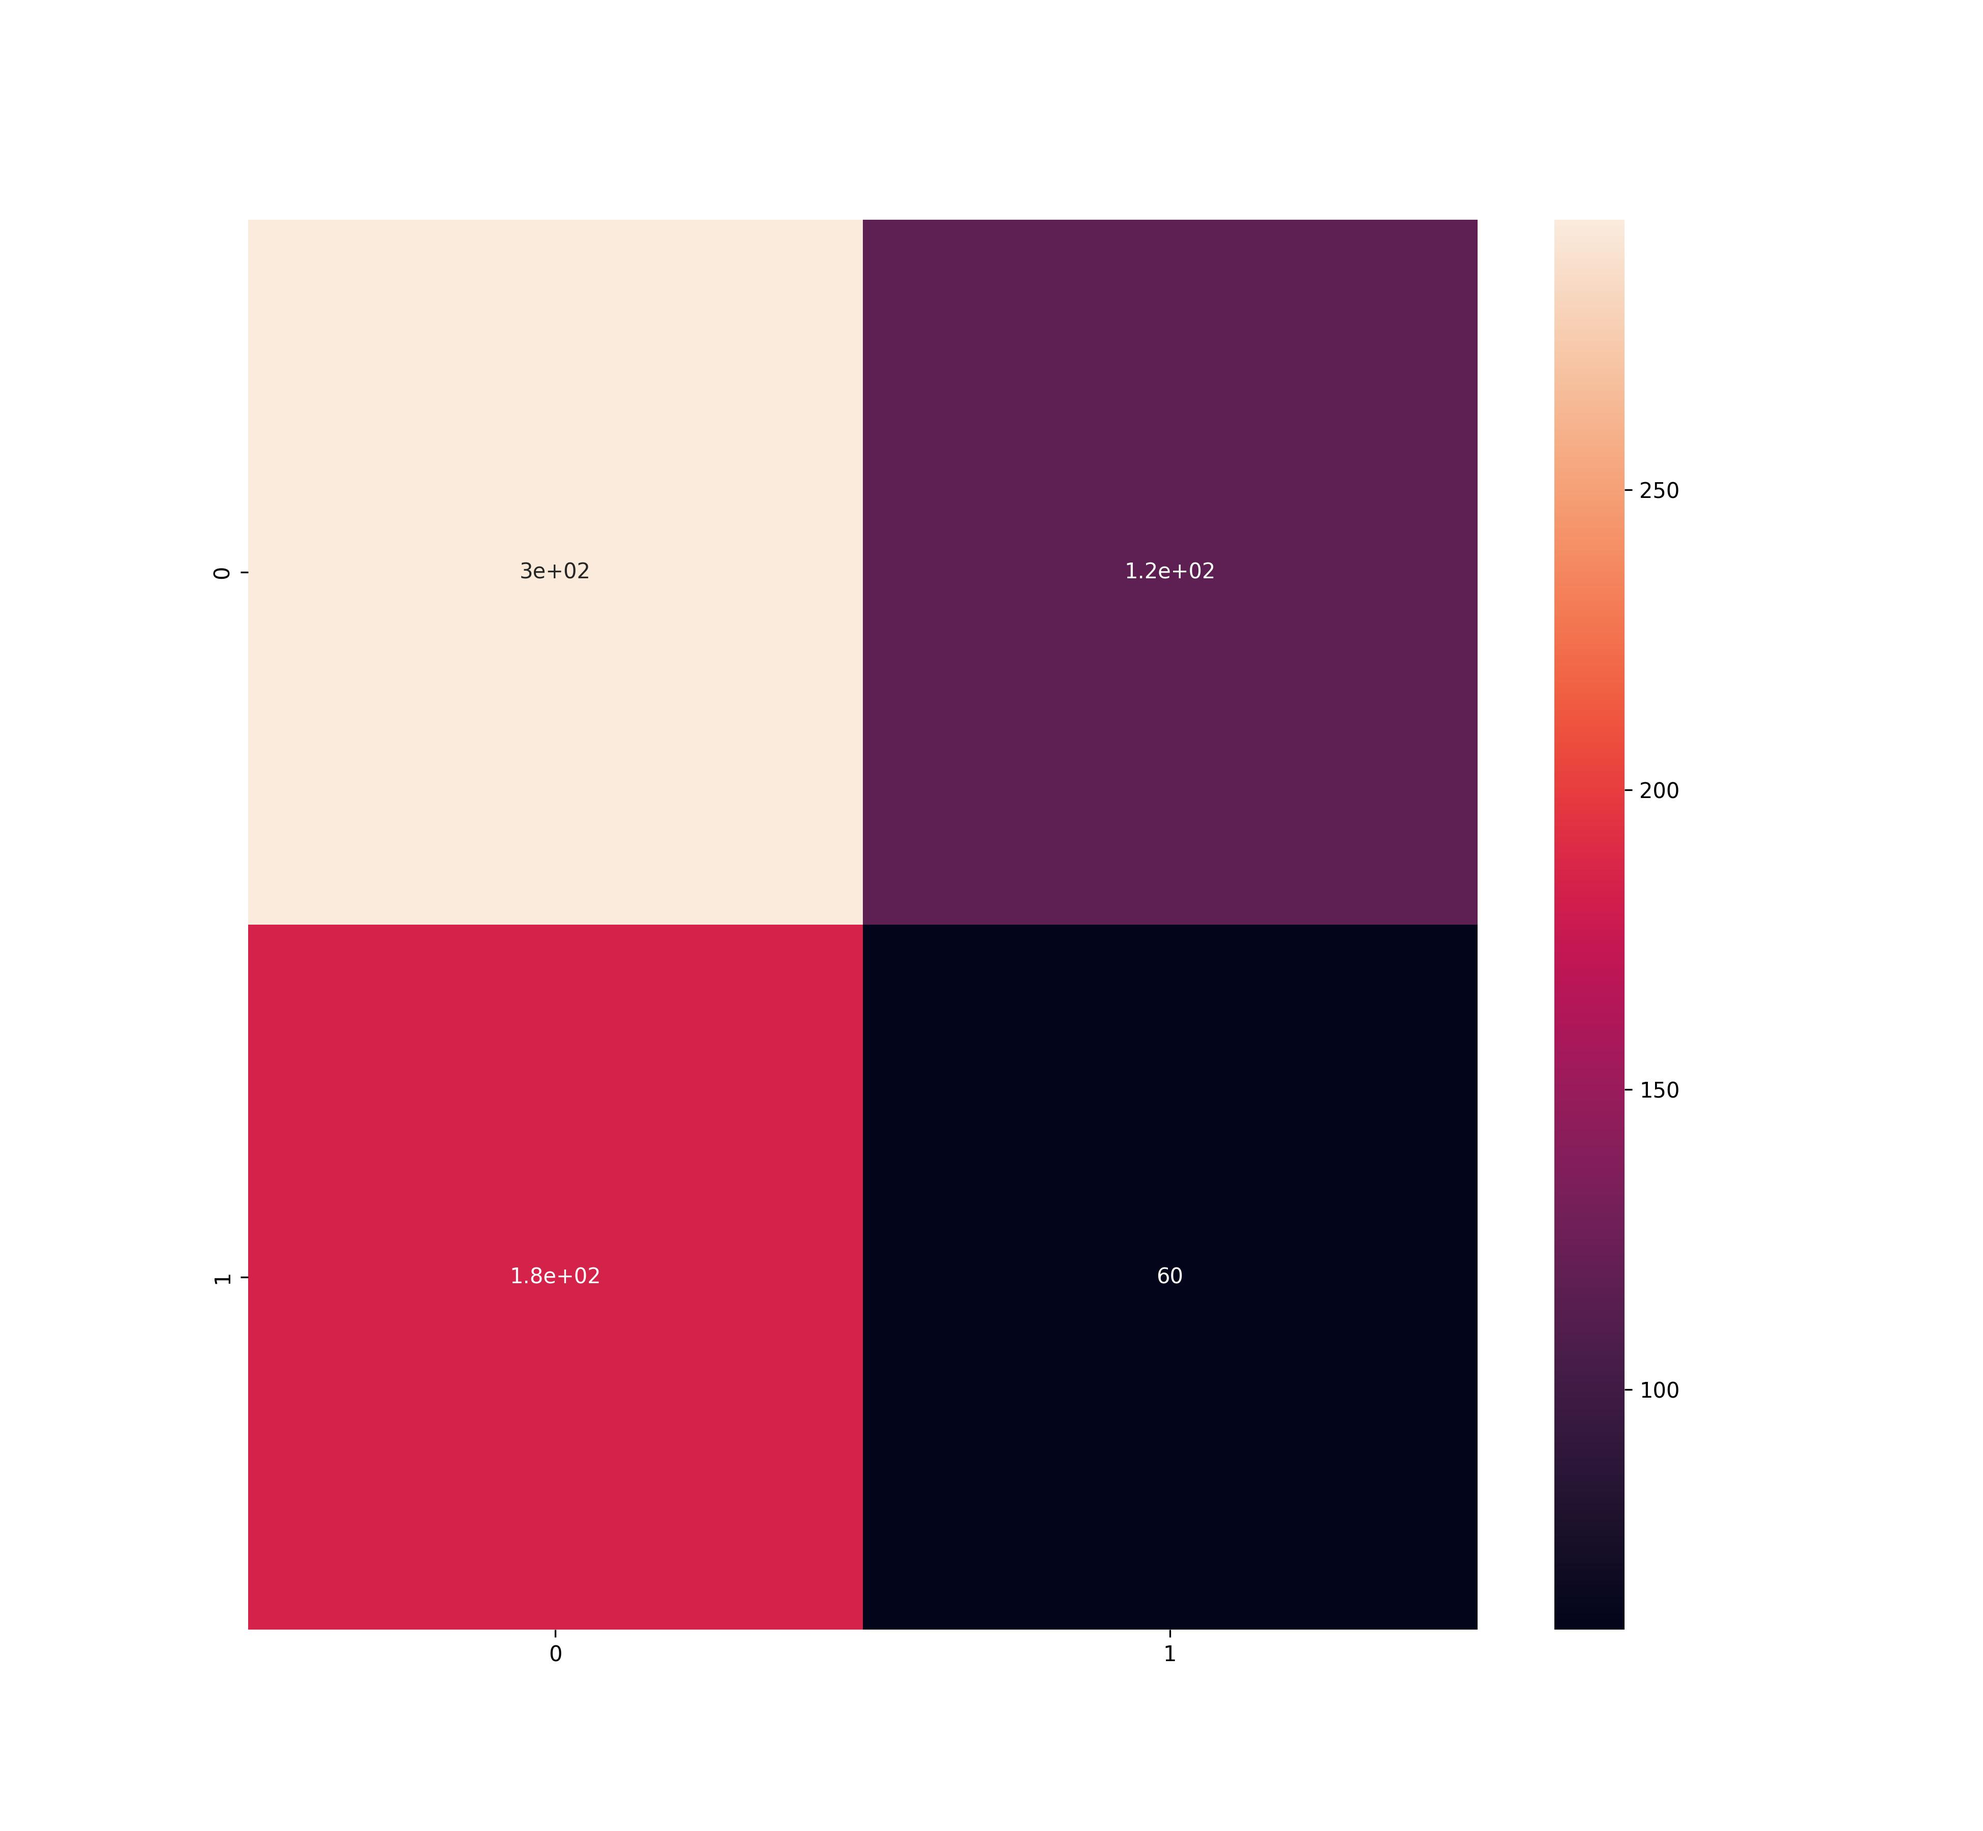
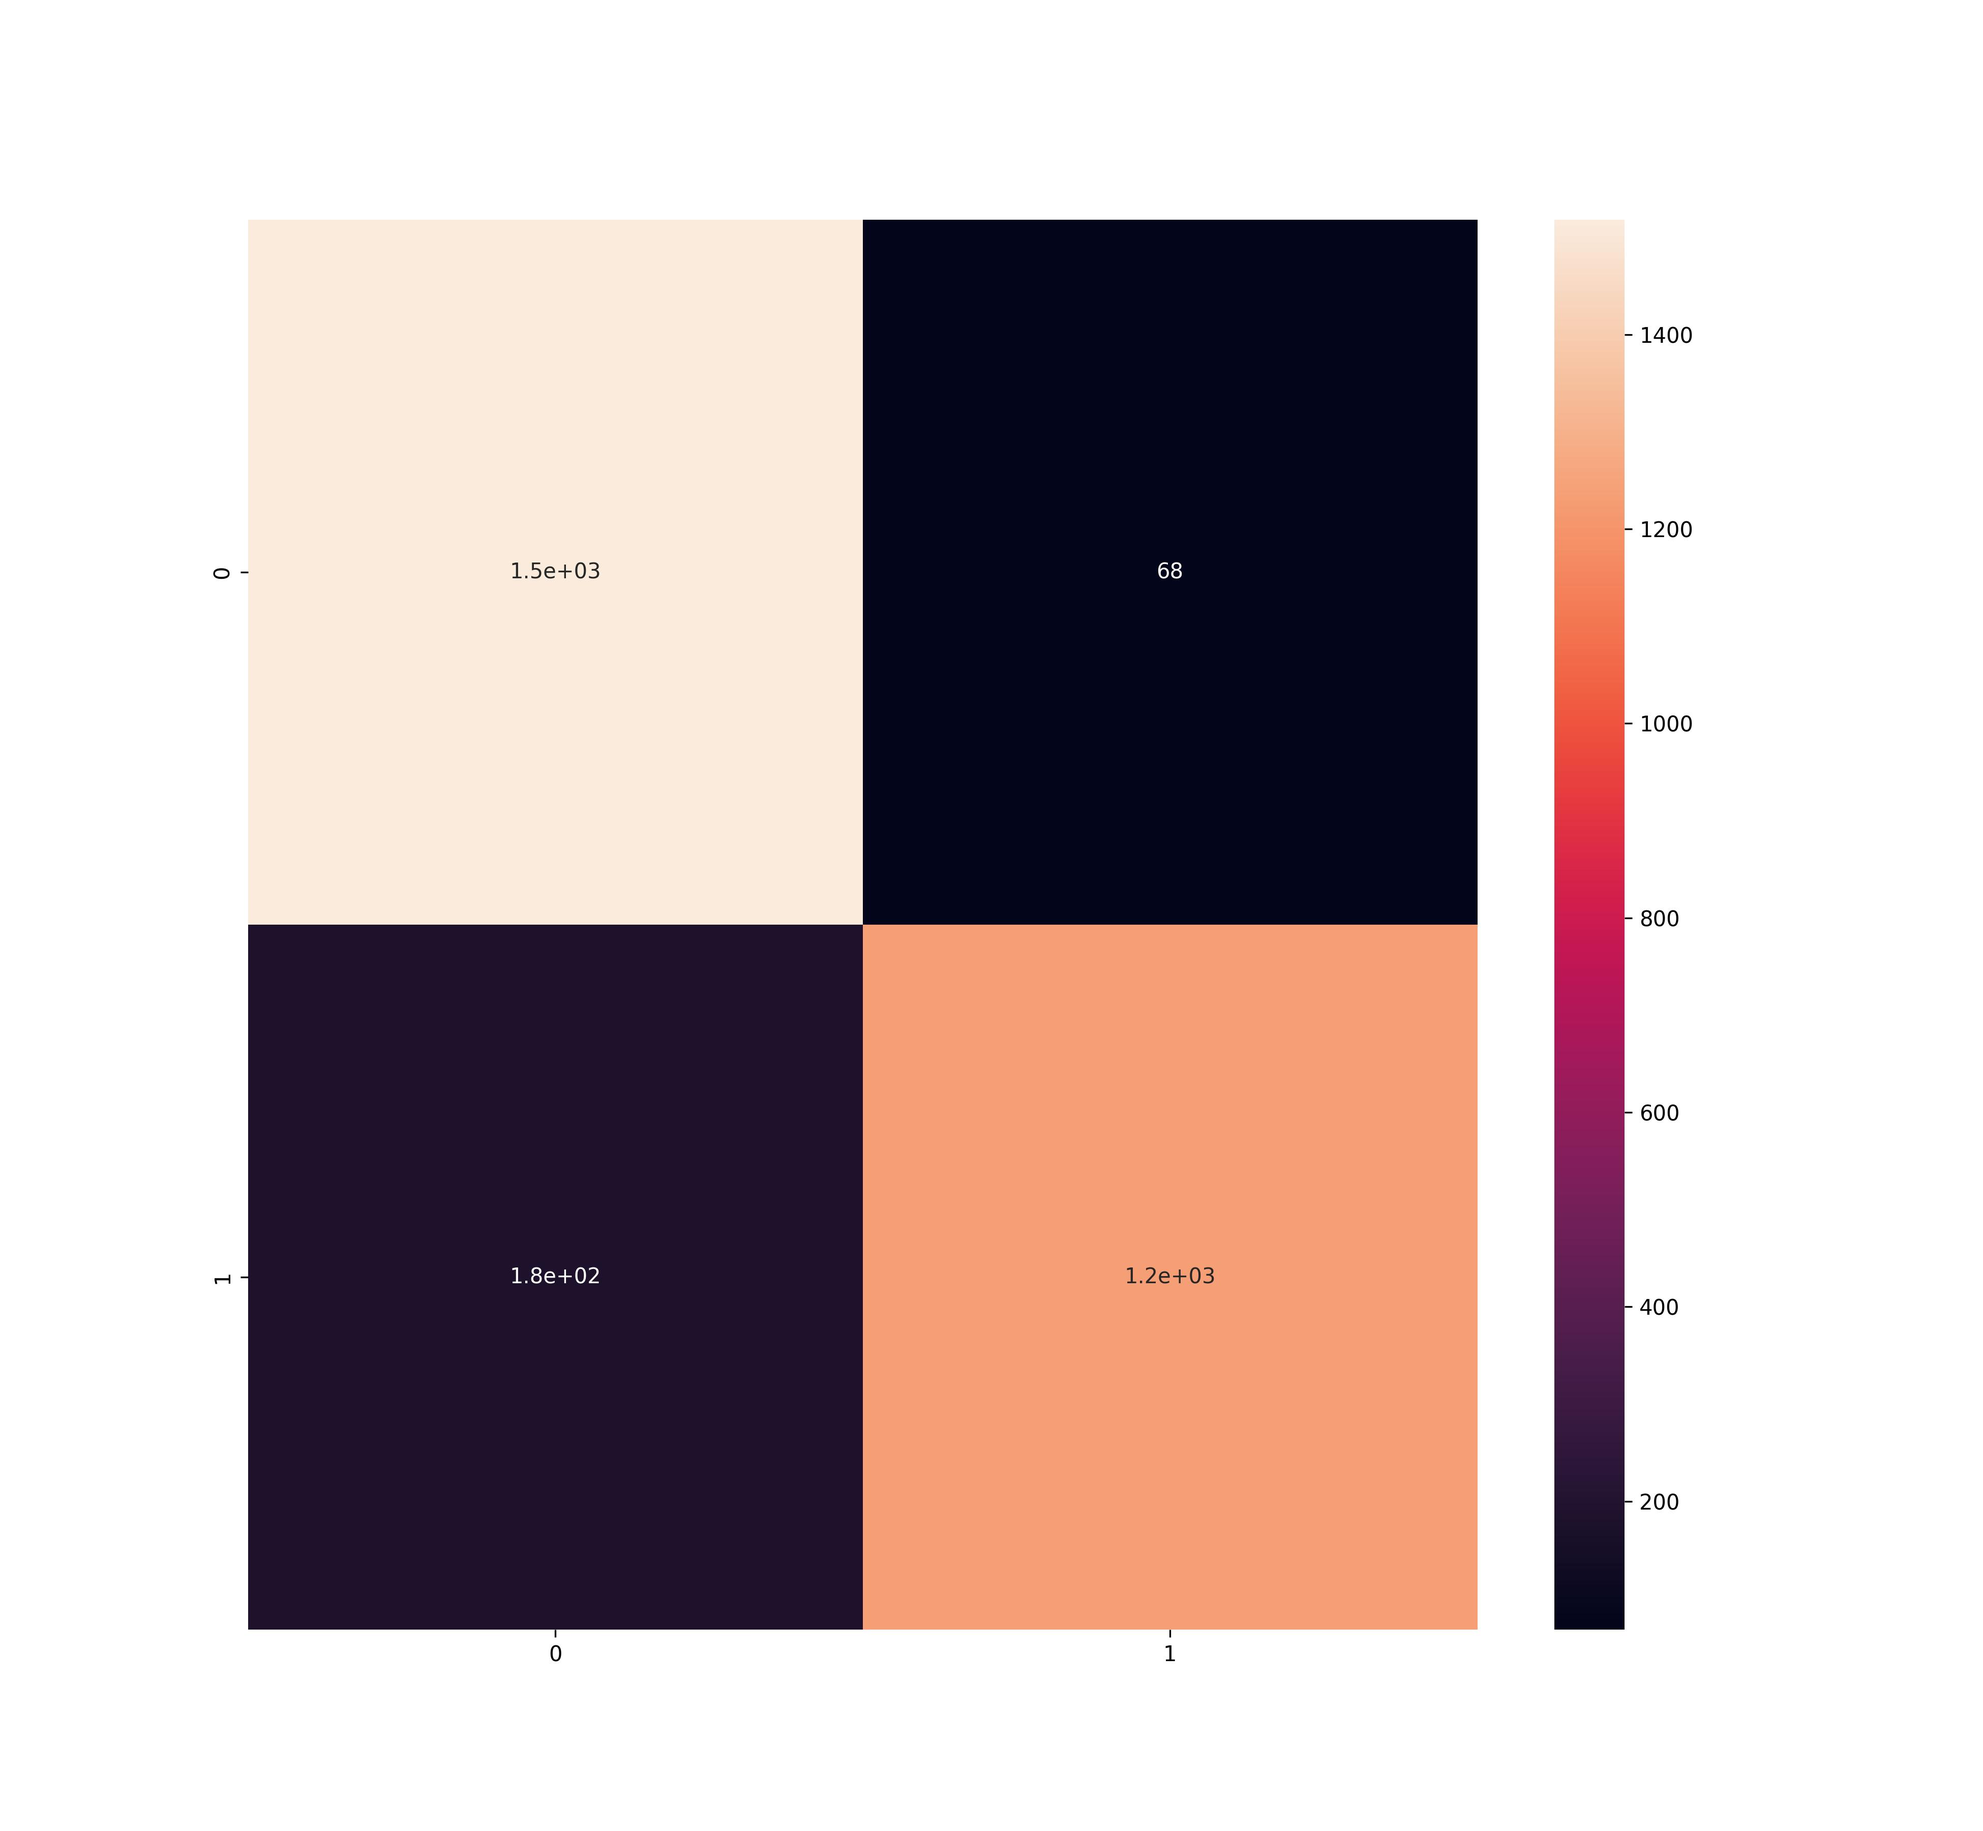
changes

diff --git a/model_utils.py b/model_utils.py
@@ -1,0 +1,149 @@
+from catboost import CatBoostClassifier
+from lightgbm import LGBMClassifier
+from sklearn.calibration import LabelEncoder
+from sklearn.ensemble import (
+    AdaBoostClassifier, BaggingClassifier, GradientBoostingClassifier, 
+    RandomForestClassifier, ExtraTreesClassifier, IsolationForest
+)
+from sklearn.impute import SimpleImputer
+from sklearn.linear_model import (
+    ElasticNet, Lasso, LogisticRegression, PassiveAggressiveClassifier, 
+    Perceptron, RidgeClassifier, SGDClassifier
+)
+from sklearn.metrics import (
+    accuracy_score, auc, cohen_kappa_score, confusion_matrix, f1_score, 
+    log_loss, matthews_corrcoef, precision_score, recall_score, 
+    roc_auc_score, roc_curve
+)
+from sklearn.multiclass import OneVsRestClassifier
+from sklearn.naive_bayes import BernoulliNB, GaussianNB, MultinomialNB
+from sklearn.neighbors import KNeighborsClassifier
+from sklearn.neural_network import MLPClassifier
+from sklearn.svm import SVC
+from sklearn.tree import DecisionTreeClassifier, ExtraTreeClassifier
+from xgboost import XGBClassifier
+import pandas as pd
+import numpy as np
+import matplotlib.pyplot as plt
+import seaborn as sns
+import streamlit as st
+from sklearn.preprocessing import label_binarize
+from sklearn.model_selection import train_test_split
+
+def switch_case(argument):
+    switcher = {
+        "Random Forest Classifier": RandomForestClassifier(),
+        "SVM": SVC(),
+        "Decision Tree Classifier": DecisionTreeClassifier(),
+        "Logistic Regression": LogisticRegression(),
+        "Adaboost Classifier" : AdaBoostClassifier(),
+        "Extra Trees Classifier" : ExtraTreeClassifier(),
+        "Gradient Boosting Classifier": GradientBoostingClassifier(),
+        "K-Nearest Neighbors Classifier": KNeighborsClassifier(),
+        "Gaussian Naive Bayes Classifier": GaussianNB(),
+        "Bernoulli Naive Bayes Classifier": BernoulliNB(),
+        "Multinomial Naive Bayes Classifier": MultinomialNB(),
+        "Passive Aggressive Classifier": PassiveAggressiveClassifier(),
+        "Bagging Classifier": BaggingClassifier(),
+        "XGBoost Classifier": XGBClassifier(),
+        "LightGBM Classifier": LGBMClassifier(),
+        "CatBoost Classifier": CatBoostClassifier(),
+        "MLP Classifier": MLPClassifier()
+    }
+    return switcher.get(argument)
+
+def cm(y_test, y_pred):
+    mdl_cm = confusion_matrix(y_test, y_pred)
+    plt.figure(figsize=(13, 12))
+    sns.heatmap(mdl_cm, annot=True)
+    plt.savefig('uploads/confusion_matrix.jpg', format="jpg", dpi=300)
+    st.image("uploads/confusion_matrix.jpg", caption="Confusion Matrix of your Data", width=600)
+
+def pre_processing(df, columns):
+    encoder = LabelEncoder()
+    for column in df.columns:
+        if df[column].dtype == 'object':
+            df[column] = encoder.fit_transform(df[column])
+
+    imputer = SimpleImputer(strategy='mean')
+    df = imputer.fit_transform(df)
+    return pd.DataFrame(df, columns=columns)
+
+def run_model(df, model, model_name):
+    st.subheader(model_name)
+    target_column = st.text_input("Enter your target column : ")
+    
+    if target_column != "":
+        X = df.drop(columns=[target_column])
+        y = df[target_column]
+        testing_size = st.text_input("Enter the test splitting size : ")
+        if testing_size != "":
+            X_train, X_test, y_train, y_test = train_test_split(X, y, test_size=float(testing_size), random_state=42)
+            model.fit(X_train, y_train)
+            testing_file = st.sidebar.file_uploader("Upload your testing CSV file...", type=['csv'])
+            
+            if testing_file is not None:
+                test = pd.read_csv(testing_file)
+                test = pre_processing(test, test.columns)
+                y_pred = model.predict(test)
+            
+            y_pred = model.predict(X_test)
+            eval_mat = st.sidebar.selectbox("Select your Evaluation Matrix :", [
+                "Accuracy", "Precision", "Recall(Sensitivity)", "F1 Score", 
+                "Roc AUC Score", "Cohen's Kappa", "Matthew's Correlation Coefficient", 
+                "Log Loss"
+            ])
+
+            metrics = {
+                "Accuracy": lambda: accuracy_score(y_test, y_pred),
+                "Precision": lambda: precision_score(y_test, y_pred, average='weighted'),
+                "Recall(Sensitivity)": lambda: recall_score(y_test, y_pred, average='weighted'),
+                "F1 Score": lambda: f1_score(y_test, y_pred, average='weighted'),
+                "Roc AUC Score": lambda: roc_auc_score(y_test, y_pred),
+                "Cohen's Kappa": lambda: cohen_kappa_score(y_test, y_pred),
+                "Matthew's Correlation Coefficient": lambda: matthews_corrcoef(y_test, y_pred),
+                "Log Loss": lambda: log_loss(y_test, y_pred)
+            }
+
+            if eval_mat in metrics:
+                result = metrics[eval_mat]()
+                st.write(f"{eval_mat} :", float(result))
+
+            if eval_mat:
+                curves = st.sidebar.selectbox("Select the metrics you want to see : ", ["Confusion Matrix", "ROC Curve"])
+                if curves == "Confusion Matrix":
+                    cm(y_test, y_pred)
+                if curves == "ROC Curve":
+                    y_arr = np.array(y)
+                    unique_classes, counts = np.unique(y_arr, return_counts=True)
+                    n_classes = len(unique_classes)
+                    y_train_bin = label_binarize(y_train, classes=range(n_classes))
+                    classifier = OneVsRestClassifier(model)
+                    classifier.fit(X_train, y_train_bin)
+                    y_score = classifier.predict_proba(X_test)
+                    aoc(y_score, n_classes, y_test)
+
+def aoc(y_score, n_classes, y_test):
+    y_test_np = y_test.to_numpy()
+    fpr = dict()
+    tpr = dict()
+    roc_auc = dict()
+    for i in range(n_classes):
+        fpr[i], tpr[i], _ = roc_curve(y_test_np == i, y_score[:, i])
+        roc_auc[i] = auc(fpr[i], tpr[i])
+
+    plt.figure()
+    colors = ['b', 'g', 'r', 'c', 'm', 'y', 'k']
+    for i, color in zip(range(n_classes), colors):
+        plt.plot(fpr[i], tpr[i], color=color,
+                 label='ROC curve of class {0} (area = {1:0.2f})'
+                 ''.format(i, roc_auc[i]))
+    plt.plot([0, 1], [0, 1], 'k--')
+    plt.xlim([0.0, 1.0])
+    plt.ylim([0.0, 1.05])
+    plt.xlabel('False Positive Rate')
+    plt.ylabel('True Positive Rate')
+    plt.title('ROC Curve for Multiclass Data')
+    plt.legend(loc="lower right")
+    plt.savefig('uploads/roc.jpg', format="jpg", dpi=300)
+    st.image("uploads/roc.jpg", caption="ROC of your Data", width=600)

diff --git a/app.py b/app.py
@@ -1,0 +1,76 @@
+import streamlit as st
+import pandas as pd
+from model_utils import switch_case, cm, pre_processing, run_model
+
+def set_custom_css(theme):
+    # Set background image URL
+    background_image_url = "https://i.pinimg.com/originals/22/7c/3c/227c3c56c0d21b4cf8b4b00f0e55c2a0.jpg"  # Pinterest image URL
+
+    if theme == "Dark":
+        st.markdown(f"""
+            <style>
+            .main {{
+                background-image: url({background_image_url});
+                background-size: cover;
+                background-position: center;
+                color: white;
+            }}
+            .sidebar {{
+                background-color: #1E1E1E;
+                color: white;
+            }}
+            </style>
+            """, unsafe_allow_html=True)
+    else:
+        st.markdown(f"""
+            <style>
+            .main {{
+                background-image: url({background_image_url});
+                background-size: cover;
+                background-position: center;
+                color: black;
+            }}
+            .sidebar {{
+                background-color: #F0F0F0;
+                color: black;
+            }}
+            </style>
+            """, unsafe_allow_html=True)
+
+def main():
+    st.set_page_config(page_title="New Theme App", layout="wide")
+    
+    st.sidebar.title("Theme Customization")
+    theme_option = st.sidebar.selectbox("Select Theme:", ["Light", "Dark"])
+
+    set_custom_css(theme_option)
+
+    st.title("New Theme App 🎨")
+    upload_file = st.file_uploader("Upload your CSV file...", type=['csv'])
+    
+    if upload_file is not None:
+        df = pd.read_csv(upload_file)
+        st.write('**DataFrame from Uploaded CSV File:**')
+        st.dataframe(df.head())
+
+        columns = df.columns
+        df = pre_processing(df, columns)
+        df = pd.DataFrame(df, columns=columns)
+
+        model_name = st.sidebar.selectbox("Select Machine Learning Model :", [
+            "Random Forest Classifier","SVM","Decision Tree Classifier","Logistic Regression", 
+            "Adaboost Classifier","Extra Trees Classifier","Gradient Boosting Classifier",
+            "K-Nearest Neighbors Classifier", "Gaussian Naive Bayes Classifier",
+            "Bernoulli Naive Bayes Classifier", "Multinomial Naive Bayes Classifier",
+            "Passive Aggressive Classifier", "Ridge Classifier", "Lasso Classifier",
+            "ElasticNet Classifier", "Bagging Classifier", "Stochastic Gradient Descent Classifier",
+            "Perceptron", "Isolation Forest", "Principal Component Analysis (PCA)",
+            "Linear Discriminant Analysis (LDA)", "Quadratic Discriminant Analysis (QDA)",
+            "XGBoost Classifier", "LightGBM Classifier", "CatBoost Classifier", "MLP Classifier"
+        ])
+
+        model = switch_case(model_name)
+        run_model(df, model, model_name)
+
+if __name__ == "__main__":
+    main()

diff --git a/streamlit-app.py b/streamlit-app.py
@@ -22,7 +22,7 @@ from sklearn.metrics import accuracy_score, auc, cohen_kappa_score, confusion_ma
 from xgboost import XGBClassifier
 
 # --server.enableXsrfProtection false
-
+# streamlit run app.py --server.enableXsrfProtection false
 # This function helps you to choose between various different machine learning models.
 def switch_case(argument):
     switcher = {
